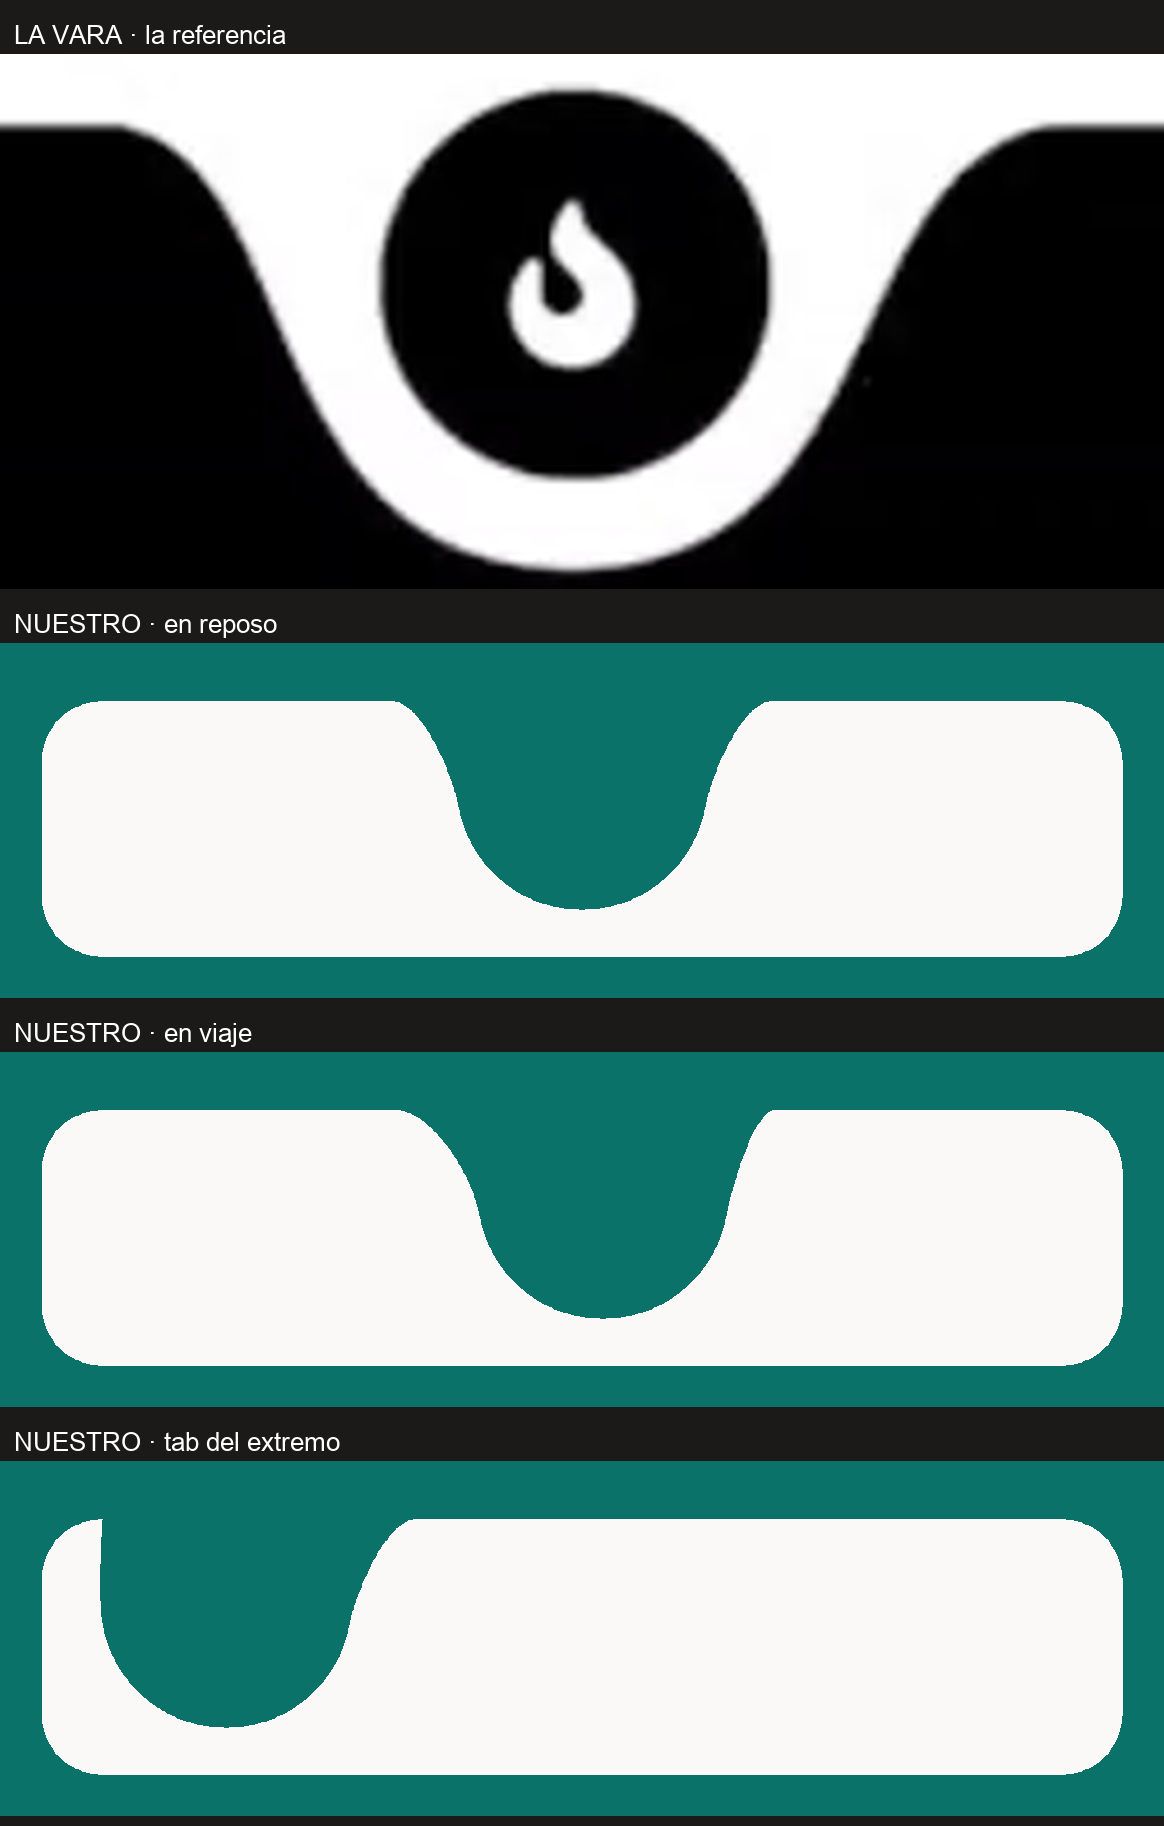
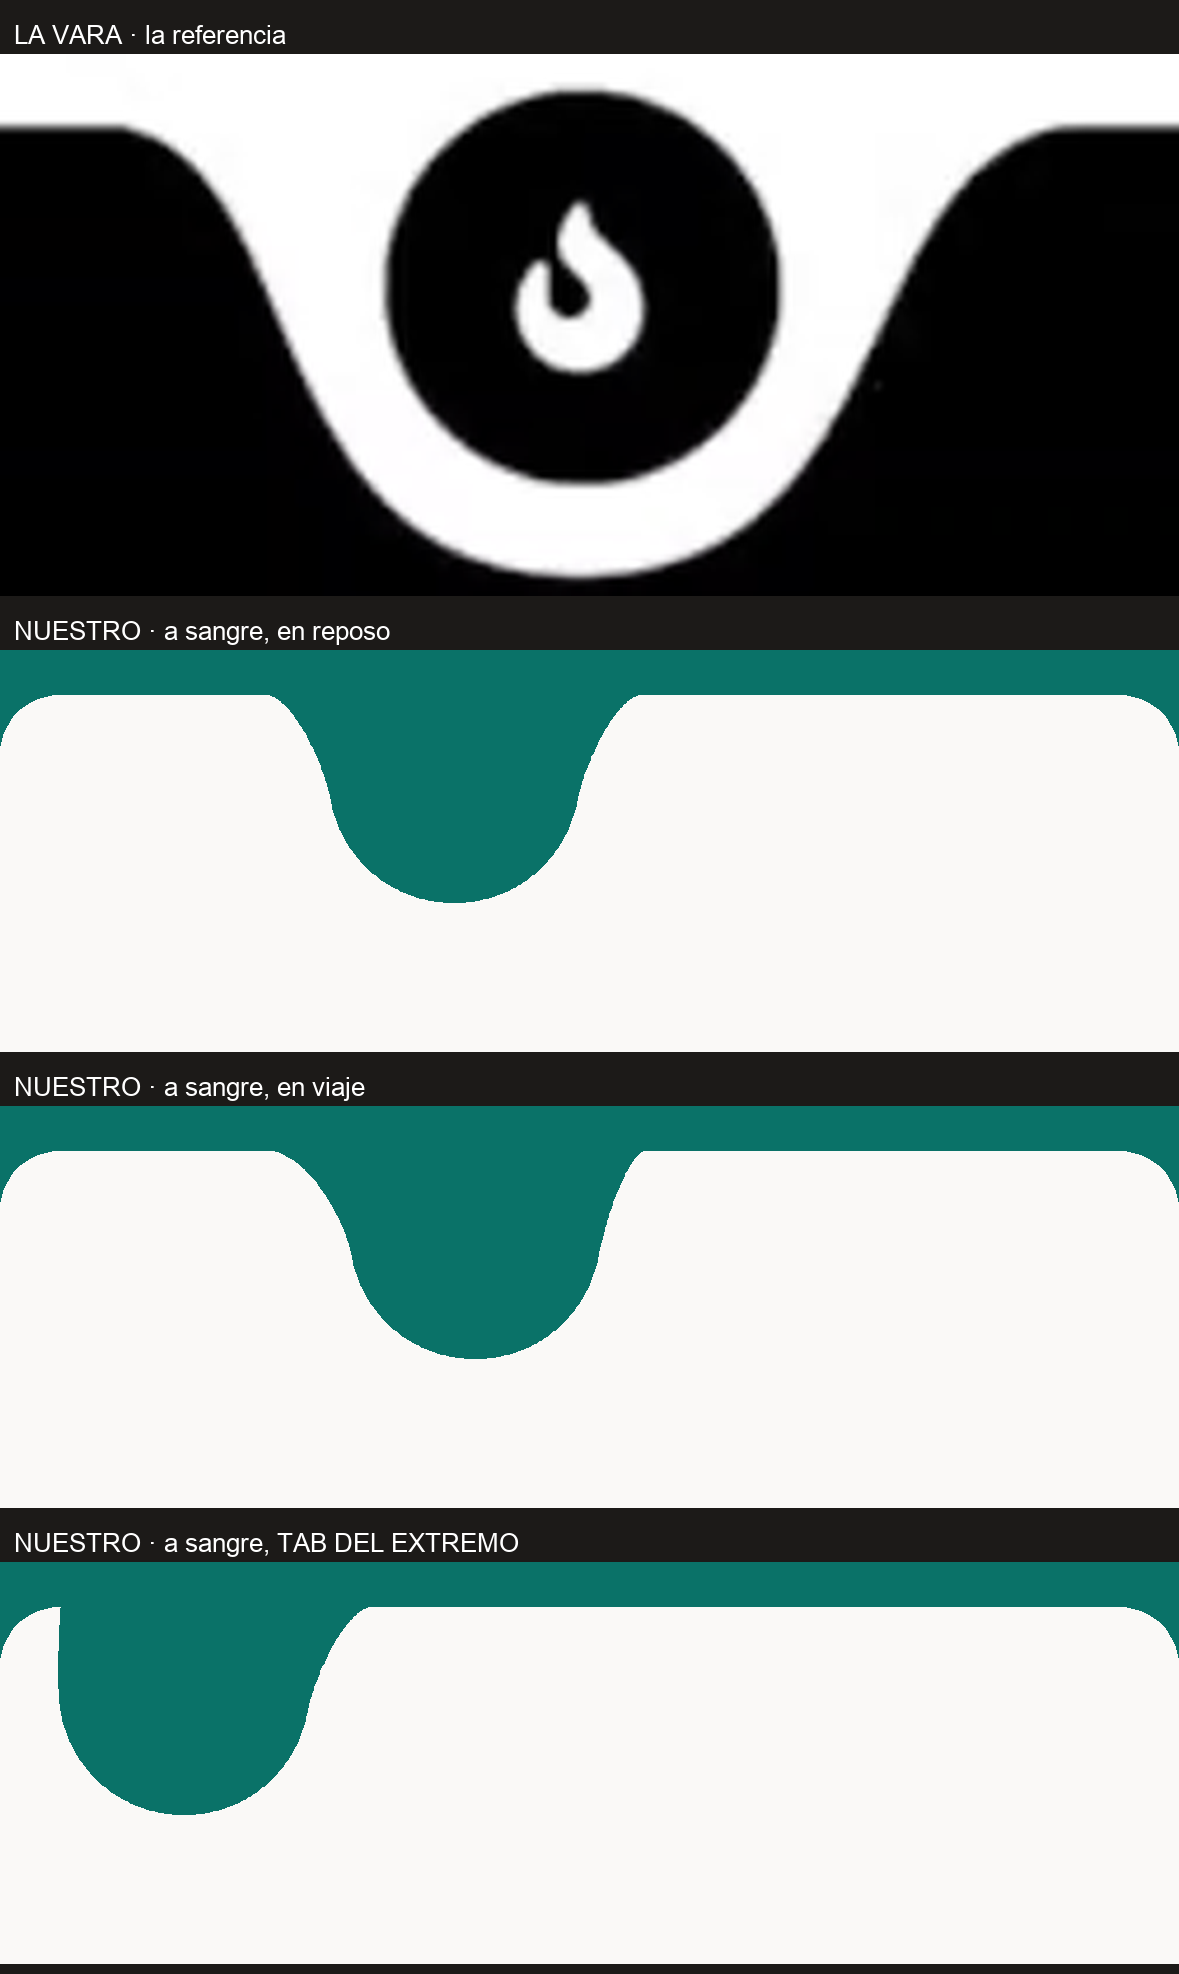
fix(ui): la barra va a sangre y el clamp del disco muere en 3 y 4 tabs
El founder: «el tab NO ESTA PINTADO HASTA EL EXTREMO DE LA PANTALLA» y
«cuando el foco esta en los tabs de las esquinas LOS JALA HACIA EL CENTRO».

MARGEN_BARRA (margen del cuerpo) pasa a INSET_CONTENIDO (inset de los
tabs): el cuerpo pinta de borde a borde y baja al filo, con las esquinas
de arriba redondeadas y las de abajo a escuadra. El tab se mide sobre el
CONTENIDO y no sobre la barra, y eso es lo que mata el clamp: si se
midiera sobre el ancho total, ir a sangre habria empujado el primer
centro hacia el borde y el clamp habria tirado mas.

Corrido del disco: 3 tabs 0,0 | 4 tabs 0,2 | 5 tabs 9,3 (antes 25,3).
Los iconos se curan solos: seguian al disco corrido.

El tercer sintoma medido por eliminacion: el anillo ES uniforme (9,1
izquierda / 9,1 diagonal / 9,0 abajo). Lo que se ve no es el anillo, es
la barra entre el valle y el filo (19,4 px). Las tres palancas y su
precio quedan servidas en el parte; ninguna se toma sin firma.

diff --git a/packages/ui/src/components/BarraTabs.tsx b/packages/ui/src/components/BarraTabs.tsx
@@ -254,17 +254,20 @@ const VALLE_SEMI = (DISCO_RADIO + ANILLO) * Math.sin((ENCUENTRO_GRADOS * Math.PI
  *  angosta y se empina, el de atrás se ensancha. Misma tela, misma
  *  piedra, **sin una sola columna arriba de la línea**. */
 const HOMBRO_VIAJE = 6
-/** 🔴 LA BARRA FLOTA — sexta corrección del gate: *«el espacio alrededor
- *  ya funciona, pero lo dejó EN BLANCO. Debería ser el VERDE DEL FONDO.»*
+/** 🔴 ⏪ LA BARRA DEJÓ DE FLOTAR Y VA **A SANGRE** — firma del founder:
+ *  *«el tab NO ESTÁ PINTADO HASTA EL EXTREMO DE LA PANTALLA»*.
  *
- *  **El recorte estaba bien y el diagnóstico de mesa lo confirmó:** el
- *  hueco mostraba blanco **porque detrás había blanco** — la barra estaba
- *  APOYADA, no flotando, así que el `evenodd` dejaba ver la base. *L-252
- *  se cumplió; lo que faltaba no era el corte, era el CONTENEDOR.*
+ *  Era `MARGEN_BARRA` (margen del CUERPO) y ahora es `INSET_CONTENIDO`
+ *  (inset de los TABS): **mismo número, otro trabajo.** El cuerpo pinta de
+ *  borde a borde y baja hasta el filo inferior; lo que conserva su aire es
+ *  el contenido.
  *
- *  Con márgenes, lo que se ve por el anillo y alrededor de la barra es el
- *  fondo real de la pantalla — que en el prestador es su verde. */
-const MARGEN_BARRA = spacing[4]
+ *  *Y el hueco del anillo sigue siendo AUSENCIA, no pintura* (L-252): el
+ *  `evenodd` deja ver el fondo real de la pantalla, que es lo que la
+ *  corrección anterior vino a arreglar. **Lo que cambió no es el corte:
+ *  es que la barra ya no deja bordes sin usar** — y esos bordes eran
+ *  justamente el espacio que el clamp del disco necesitaba. */
+const INSET_CONTENIDO = spacing[4]
 /** El radio del cuerpo flotante. `radius.xl` es el escalón que la casa usa
  *  para superficies grandes apoyadas; no nace un número nuevo. */
 const RADIO_BARRA = radius.xl
@@ -399,7 +402,11 @@ function pathBarra(ancho: number, alto: number, estira: number, cx: number) {
   const kI = 0.45 * hIzq
   const kD = 0.45 * hDer
   return [
-    `M0 ${alto - rc}`,
+    /* 🔴 ESQUINAS: ARRIBA REDONDEADAS, ABAJO A ESCUADRA. Con la barra a
+       sangre las de abajo apoyan contra el filo de la pantalla, y una
+       esquina redondeada tocando el borde se lee como un error de
+       recorte — no como una superficie. */
+    `M0 ${alto}`,
     `V${rc}`,
     `a${rc} ${rc} 0 0 1 ${rc} ${-rc}`,
     `H${hombroI}`,
@@ -414,10 +421,7 @@ function pathBarra(ancho: number, alto: number, estira: number, cx: number) {
     `C${der + kD * fx} ${ym - kD * fy} ${hombroD - (hombroD - der) * 0.45} 0 ${hombroD} 0`,
     `H${ancho - rc}`,
     `a${rc} ${rc} 0 0 1 ${rc} ${rc}`,
-    `V${alto - rc}`,
-    `a${rc} ${rc} 0 0 1 ${-rc} ${rc}`,
-    `H${rc}`,
-    `a${rc} ${rc} 0 0 1 ${-rc} ${-rc}`,
+    `V${alto}`,
     `Z`,
   ].join(' ')
 }
@@ -633,14 +637,21 @@ export function BarraTabs({
   const estira = useSharedValue(0)
 
   const indiceActivo = Math.max(0, items.findIndex((i) => i.key === activo))
-  const anchoTab = ancho / Math.max(1, items.length)
+  /* 🔴 EL TAB SE MIDE SOBRE EL CONTENIDO, NO SOBRE LA BARRA. La barra va a
+     sangre pero los tabs conservan su inset ⇒ **el centro del primer tab
+     queda `INSET_CONTENIDO` más adentro**, y eso es exactamente lo que
+     hace que el clamp deje de dispararse. *Si el tab se midiera sobre el
+     ancho total, ir a sangre habría empujado el primer centro HACIA EL
+     BORDE y el clamp habría tirado más fuerte, no menos.* */
+  const anchoUtil = Math.max(1, ancho - 2 * INSET_CONTENIDO)
+  const anchoTab = anchoUtil / Math.max(1, items.length)
   /* 🔴 DEFECTO A · EL DISCO NUNCA SALE DE LA BARRA. En el primer y último
      tab el centro de la pestaña está a menos de un radio del borde, así que
      el disco quedaba COLGANDO afuera con su anillo cortado — que es lo que
      el founder vio en «Hoy» y en «Cuenta» y no pasaba en «Atender».
      Se acota contra la esquina redondeada. *El disco se corre unos píxeles
      de su tab en las puntas; salirse de la barra no es una alternativa.* */
-  const cxCrudo = anchoTab * (indiceActivo + 0.5)
+  const cxCrudo = INSET_CONTENIDO + anchoTab * (indiceActivo + 0.5)
   /* ⏪ Era `DISCO_RADIO + RADIO_BARRA * 0.35` (40 px) y **quedó corto con
      la anatomía nueva**: el valle es más ancho que el disco, así que a 40
      el DISCO entraba y su VALLE no — el hombro se clampaba contra la
@@ -658,7 +669,10 @@ export function BarraTabs({
      costó el ícono descentrado hace tres gates.*
      Ahora el corrimiento se DERIVA de la misma posición del disco. */
   const corrimientoActivo = cxDestino - cxCrudo
-  const altoTotal = ALTO_FILA
+  /* La barra baja HASTA EL FILO: el inset inferior deja de ser margen (que
+     dejaba ver el fondo debajo del cuerpo) y pasa a ser cuerpo pintado.
+     El contenido sigue viviendo en los `ALTO_FILA` de arriba. */
+  const altoTotal = ALTO_FILA + insets.bottom
 
   useEffect(() => {
     if (ancho === 0) return
@@ -704,12 +718,14 @@ export function BarraTabs({
       onLayout={(e) => setAncho(e.nativeEvent.layout.width)}
       style={{
         flexDirection: 'row',
-        /* 🔴 LA BARRA FLOTA (ver `MARGEN_BARRA`). El inset inferior queda
-           como MARGEN y no como padding: así el fondo de la pantalla se ve
-           TAMBIÉN debajo del cuerpo, que es lo que la vuelve una superficie
-           apoyada sobre el contenido y no un zócalo pegado al borde. */
-        marginHorizontal: MARGEN_BARRA,
-        marginBottom: insets.bottom,
+        alignItems: 'flex-start',
+        /* 🔴 A SANGRE (ver `INSET_CONTENIDO`): cero margen lateral y el
+           alto llega al filo inferior. **El inset del contenido NO va acá
+           como padding a propósito** — un hijo absoluto de una caja con
+           padding se posiciona distinto según la versión de Yoga, y el
+           lienzo del vector cuelga de `left: 0`. *El inset vive en la fila
+           interna, donde no hay ninguna ambigüedad que resolver.* */
+        height: altoTotal,
         /* ⛔ SIN `backgroundColor`, y es LA condición del hueco: si la
            caja pinta, no hay ausencia posible y el hueco tendría que
            pintarse del color del fondo — justo lo que la advertencia ③
@@ -757,6 +773,17 @@ export function BarraTabs({
           />
         </View>
       ) : null}
+      {/* LA FILA DEL CONTENIDO — la que conserva el inset que la barra
+          soltó. Es un envoltorio y nada más: la geometría del vector sigue
+          midiéndose contra el ancho ENTERO. */}
+      <View
+        style={{
+          flexDirection: 'row',
+          flex: 1,
+          paddingHorizontal: INSET_CONTENIDO,
+          height: ALTO_FILA,
+        }}
+      >
       {items.map((item) => {
         const esActivo = item.key === activo
         /* 🔴 DOS SUPERFICIES, DOS COLORES DE CONTENIDO — y por eso ya no
@@ -872,6 +899,7 @@ export function BarraTabs({
           </Pressable>
         )
       })}
+      </View>
     </View>
   )
 }

diff --git a/docs/loop/S99-B.md b/docs/loop/S99-B.md
@@ -1059,3 +1059,85 @@ su tab. **No lo decido yo.**
 
 **Medido al cierre:** `verify:diseno` **VERDE 40** · WCAG **368/0** · tsc
 de los cuatro paquetes **0** · solo mis rutas.
+
+---
+
+## LAS ESQUINAS — LA BARRA A SANGRE Y EL CLAMP RE-MEDIDO
+
+**El descarte de «a sangre» se re-corrió y estaba vencido, tal como la
+mesa sospechaba:** se hizo con el valle viejo (semiancho 43). El valle de
+hoy mide **41,4**, y además **el descarte medía la variable equivocada** —
+el tab se medía sobre el ancho de la barra, y a sangre eso empuja el
+primer centro HACIA el borde, o sea que el clamp habría tirado MÁS.
+
+### ① La barra a sangre — construida
+
+`MARGEN_BARRA` (margen del CUERPO) → **`INSET_CONTENIDO`** (inset de los
+TABS): mismo número, otro trabajo. El cuerpo pinta **de borde a borde y
+baja hasta el filo inferior** (el inset de abajo deja de ser margen y pasa
+a ser cuerpo pintado). **Esquinas de arriba redondeadas, las de abajo a
+escuadra** — una esquina redondeada tocando el filo se lee como error de
+recorte. El inset del contenido vive en una **fila interna**, no como
+padding del contenedor: un hijo absoluto de una caja con padding se
+posiciona distinto según la versión de Yoga y el lienzo del vector cuelga
+de `left: 0`.
+
+### ② El clamp — RE-MEDIDO, y muere en 3 y 4 tabs
+
+`margenDisco = rc + VALLE_SEMI = 61,4`. Con el tab medido **sobre el
+contenido** (no sobre la barra), el centro del primer tab sube:
+
+| tabs | centro del 1er tab | corrido por el clamp |
+|---|---|---|
+| 3 | 76,2 | **0,0 — CLAMP MUERTO** |
+| 4 *(cliente y el prestador típico)* | 61,1 | **0,2 — CLAMP MUERTO** |
+| 5 | 52,1 | 9,3 *(antes 25,3)* |
+
+**③ se cura solo:** los íconos seguían al disco corrido, y el disco ya no
+se corre.
+
+### 🔴 EL TERCER SÍNTOMA: DOS HIPÓTESIS CAEN Y LA TERCERA NO ES LA QUE PARECÍA
+
+Medido el hueco **por dirección** alrededor del disco: **izquierda 9,1 ·
+diagonal 9,1 · abajo 9,0**. ⇒ **el anillo ES uniforme.**
+
+- ⛔ *«el hombro no llega al borde de la barra»* — **falso**, el hueco no
+  crece hacia la izquierda.
+- ⛔ *«la esquina redondeada come el hombro y lo que queda es el radio»* —
+  **falso como causa del hueco**: el hombro sí se come (abajo), pero el
+  anillo no se mueve de 9.
+- ✅ **Lo que el founder ve NO es el anillo: es la BARRA que sigue
+  existiendo entre el valle y el filo de la pantalla.** En el primer tab
+  son **19,4 px de blanco** después del anillo de 9. Junto se lee como un
+  anillo de 28 de un lado contra 9 arriba.
+
+**Y no lo cura ir a sangre ni matar el clamp** — el disco está en el
+centro de su tab y ese centro está a 61 px del filo. **La única palanca es
+que el disco se siente más cerca del borde**, y su precio está medido:
+
+| para bajar el blanco a ~16 px | costo |
+|---|---|
+| `INSET_CONTENIDO` 16 → 0 | el clamp vuelve a disparar 12,2 px |
+| `INSET` 0 **+** valle más angosto (θ ≥ 118°) | la inflexión cae de 50 % a **68 %** de la profundidad |
+| `rc` 20 → 12 **+** `INSET` 8 | blanco 22 px · clamp muerto · inflexión intacta |
+
+**No lo decido yo: las tres cambian una firma.**
+
+### Los tres números — sobre lo construido, a sangre, 4 tabs
+
+| | reposo | en viaje | **tab del extremo** |
+|---|---|---|---|
+| columnas sobre el plano | **0** | **0** | **0** |
+| profundidad/ancho | **1,10** | 1,11 | 1,39 |
+| inflexión | 35 % · 50 % | 45 % · 50 % | 0 % · 41 % |
+| anillo | 9,00 | 2,12 | **9,0–9,1 uniforme** |
+
+**⚠ Y el precio de matar el clamp, declarado:** en el tab del extremo el
+hombro pasa a **0 px** — el valle arranca en la esquina redondeada. **No
+se invierte** (era el defecto de la vuelta anterior) y el anillo aguanta,
+pero *la S ahí no se lee: se lee el radio de la esquina*. Es exactamente
+el acoplamiento inverso — **darle hombro al extremo es volver a correr el
+disco**, y el founder pidió lo contrario.
+
+**Medido al cierre:** `verify:diseno` **VERDE 40** · WCAG **368/0** · tsc
+de los cuatro paquetes **0**.
